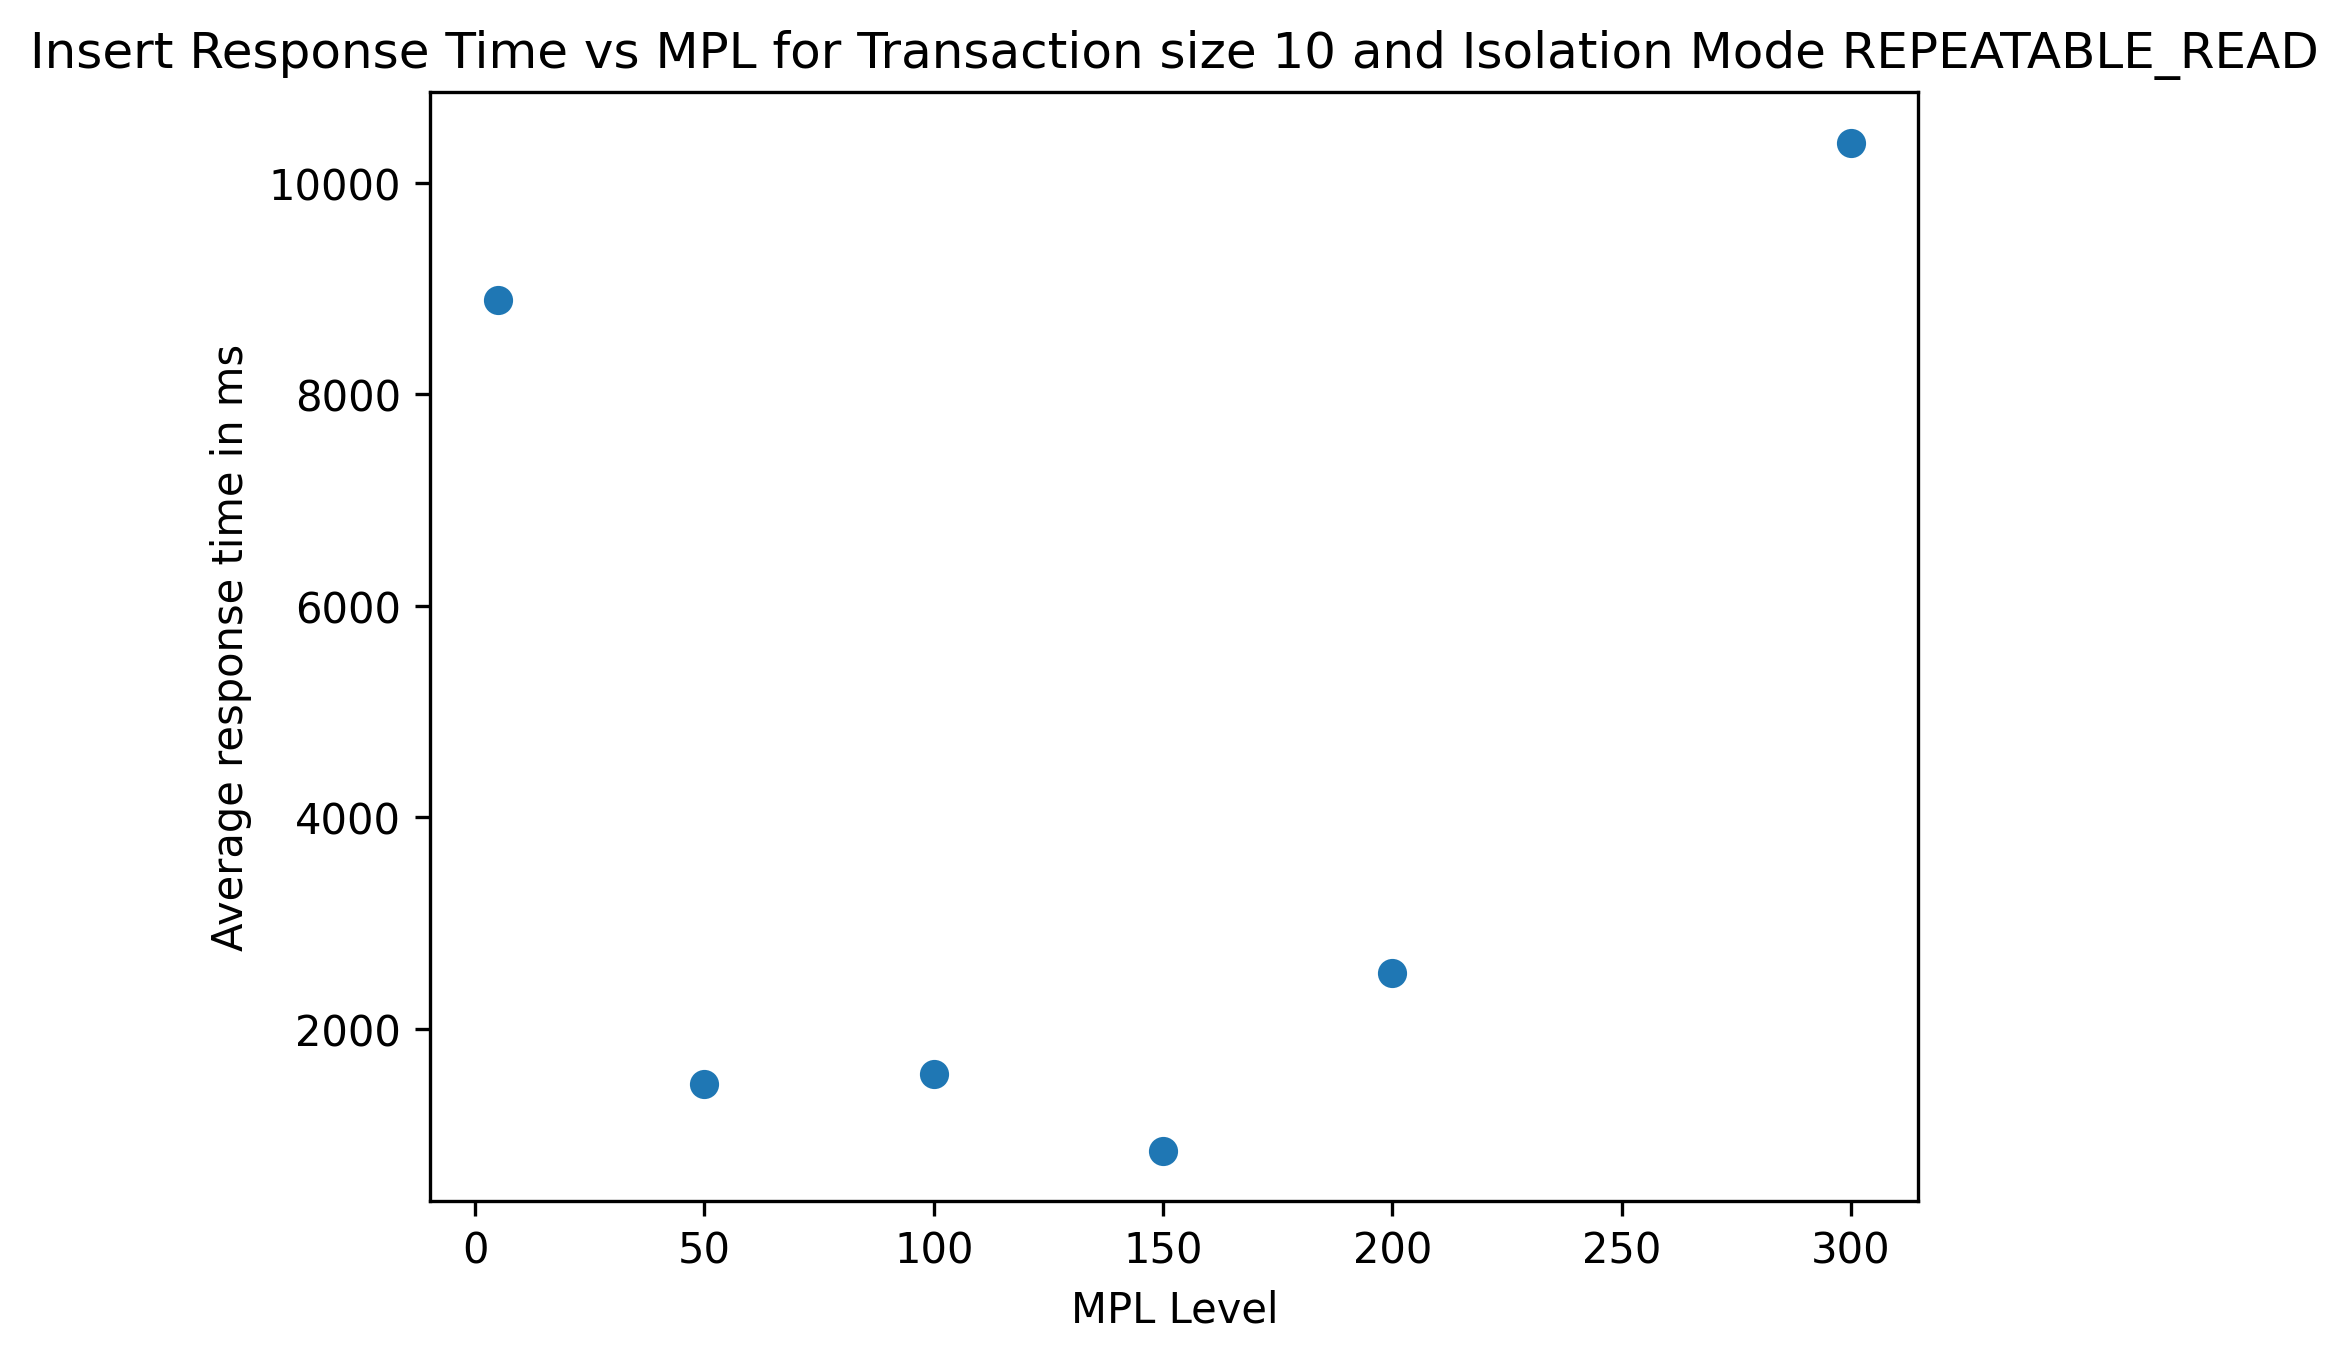
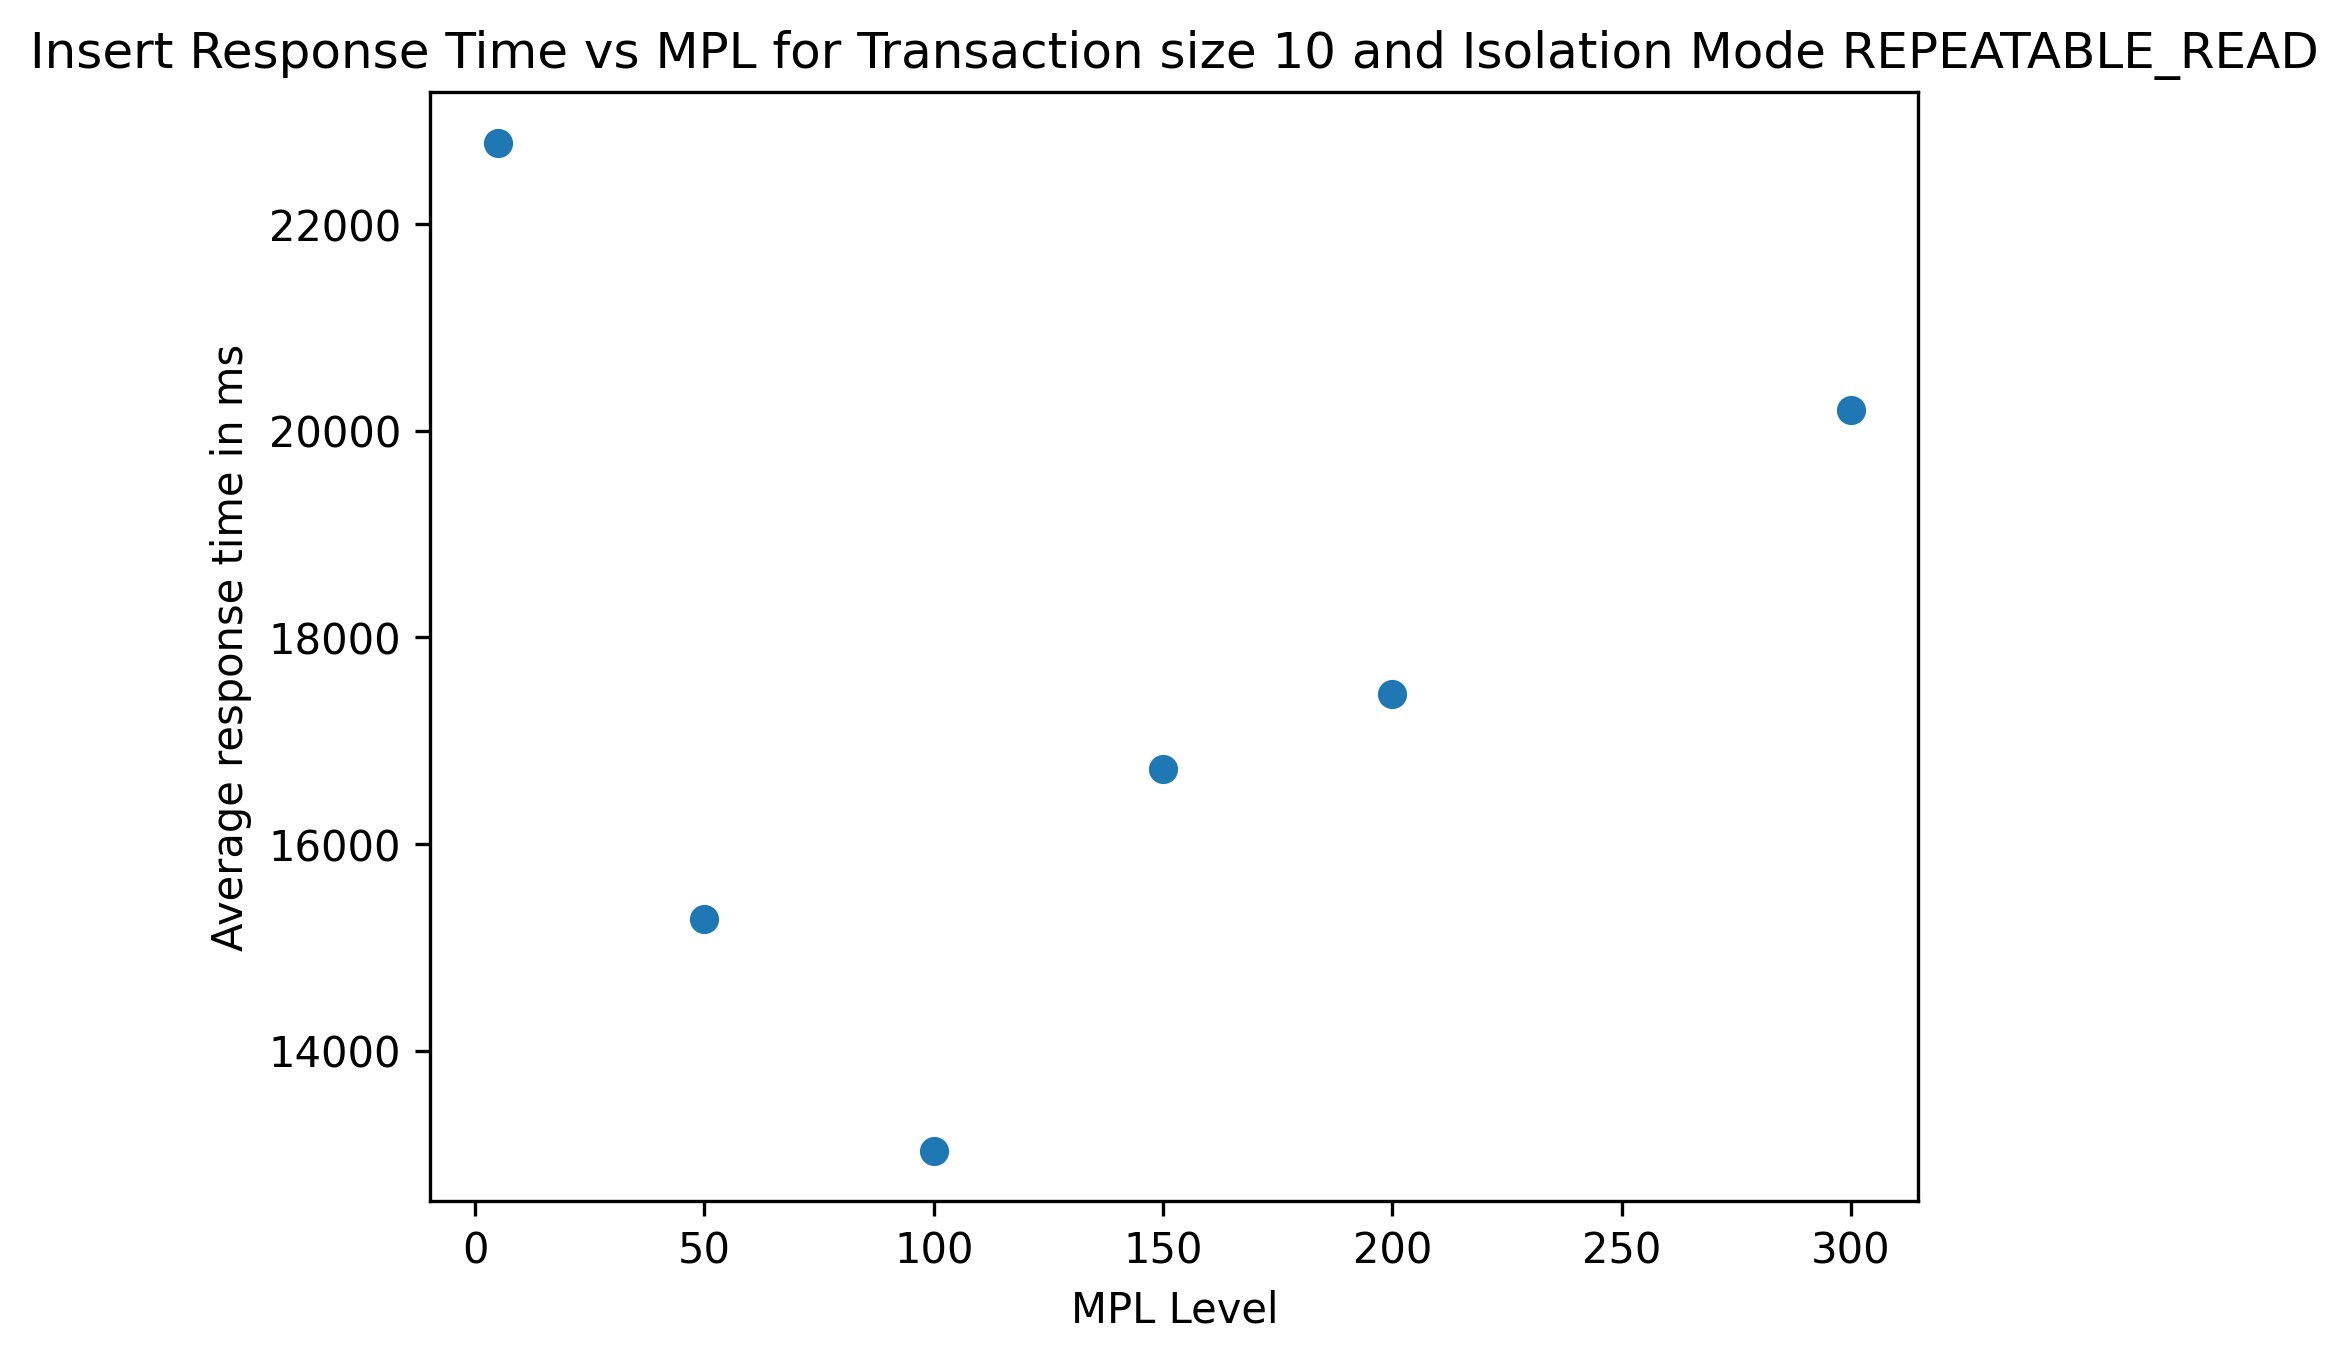
Fixed High concurrency bug and updated graphs

diff --git a/transactionsim/src/main/java/com/yap/project/TransactionSender.java b/transactionsim/src/main/java/com/yap/project/TransactionSender.java
@@ -100,8 +100,6 @@ public class TransactionSender extends Thread {
                     long currentTime = Producer.incomingTimes.get(currentCursor);
                     String currentOperation = Producer.incomingOperations.get(currentCursor);
                     sleep(currentTime>systemTime?currentTime-systemTime:0);
-                    sleep(currentTime>systemTime?currentTime-systemTime:0);
-                    sleep(currentTime>systemTime?currentTime-systemTime:0);
                     // while(currentTime > watchClock.getTime()){
                     //     continue;
                     // }
